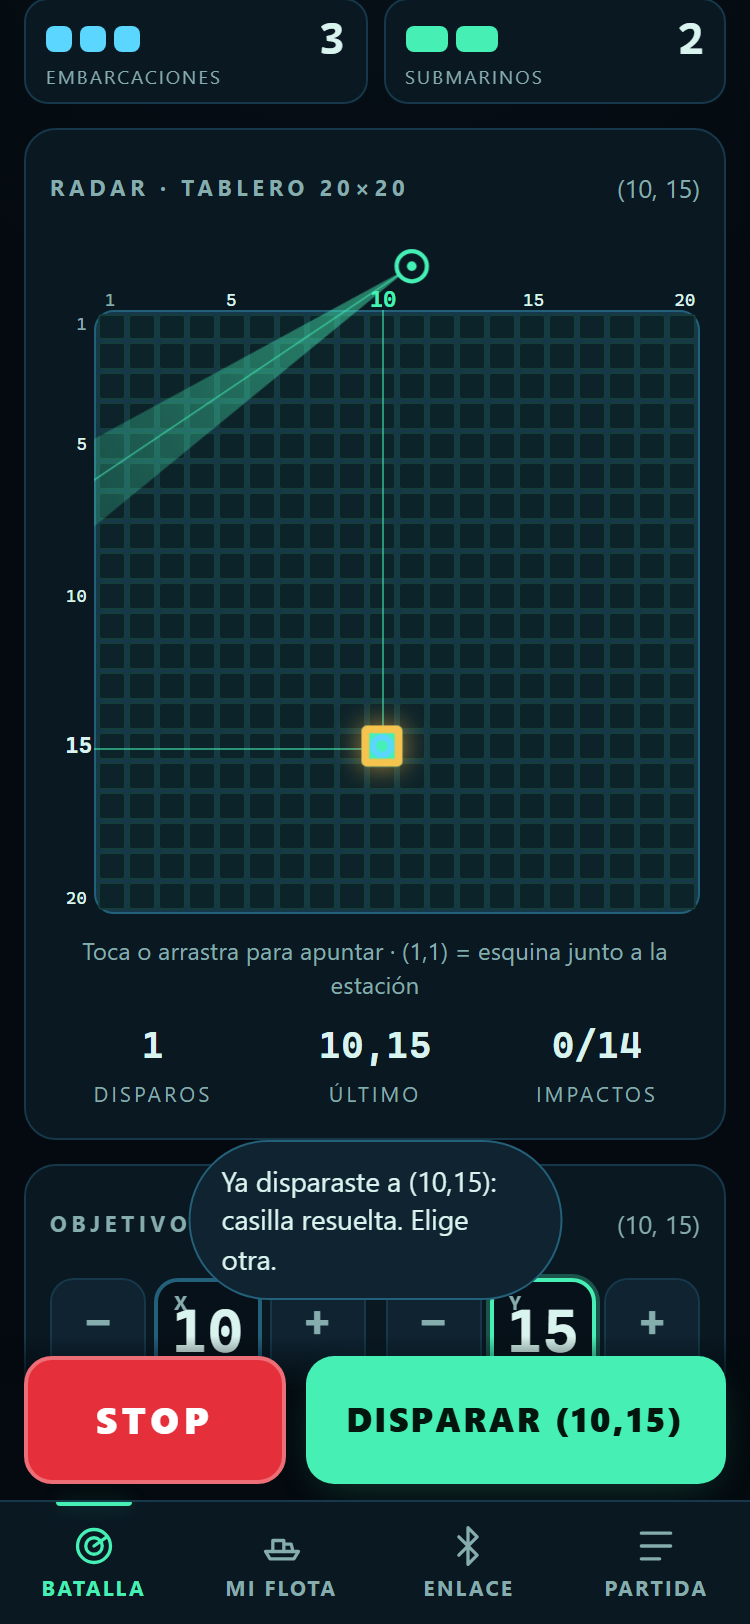
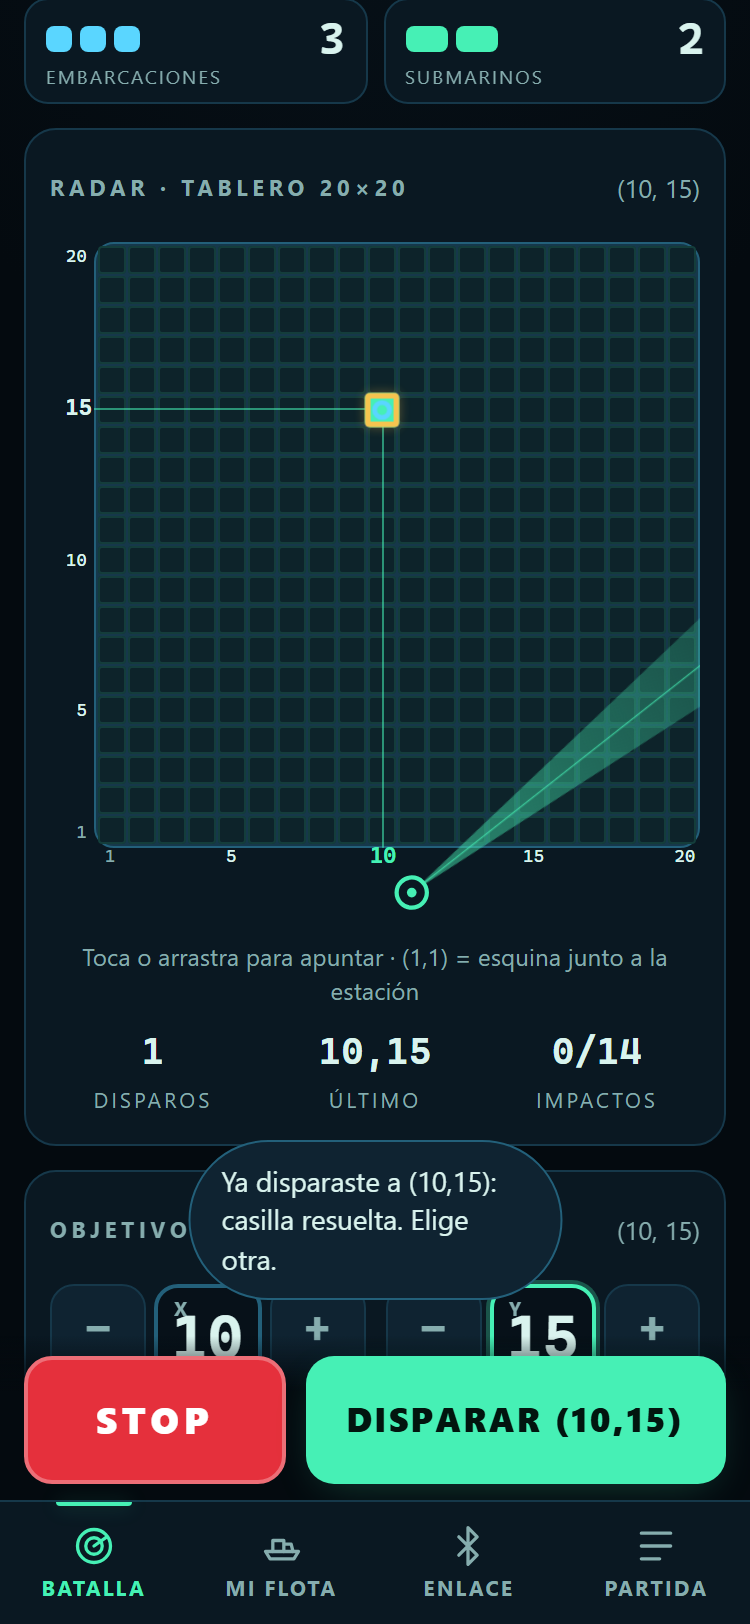
fix(app): la estacion y el disparo salen desde abajo; (1,1) abajo-izquierda
El radar, Mi flota y Ubica el barco se dibujan con y=1 en la fila de abajo,
junto a la estacion, como en el tablero fisico. Fx, tutorial (escena del laser),
flechas del teclado y e2e ajustados. Docs: hardware final sin luces.

diff --git a/app/src/ui/Board.tsx b/app/src/ui/Board.tsx
@@ -8,15 +8,17 @@ import { app } from '../state'
 import { CycleFx } from './cycle/Stage'
 
 const NUMS = Array.from({ length: N }, (_, i) => i + 1)
+/** Etiquetas del eje Y de arriba abajo: (1,1) queda ABAJO, junto a la estación, como en el tablero físico. */
+const NUMS_Y = [...NUMS].reverse()
 const clampCell = (n: number) => Math.max(1, Math.min(N, n))
 function cellFromPointer(e: PointerEvent): Coord {
   const r = (e.currentTarget as HTMLElement).getBoundingClientRect()
-  return { x: clampCell(Math.floor(((e.clientX - r.left) / r.width) * N) + 1), y: clampCell(Math.floor(((e.clientY - r.top) / r.height) * N) + 1) }
+  return { x: clampCell(Math.floor(((e.clientX - r.left) / r.width) * N) + 1), y: clampCell(N - Math.floor(((e.clientY - r.top) / r.height) * N)) }
 }
 const capture = (e: PointerEvent) => { try { (e.currentTarget as HTMLElement).setPointerCapture?.(e.pointerId) } catch { /* sin captura */ } }
 
 const YLab = (p: { y?: number | undefined }) => (
-  <div class="ylab" aria-hidden="true">{NUMS.map(n => <i class={`${n % 5 === 0 ? 'm' : ''} ${p.y === n ? 'on' : ''}`}>{n % 5 === 0 || n === 1 || p.y === n ? n : ''}</i>)}</div>
+  <div class="ylab" aria-hidden="true">{NUMS_Y.map(n => <i class={`${n % 5 === 0 ? 'm' : ''} ${p.y === n ? 'on' : ''}`}>{n % 5 === 0 || n === 1 || p.y === n ? n : ''}</i>)}</div>
 )
 const XLab = (p: { x?: number | undefined }) => (
   <div class="xlab" aria-hidden="true">{NUMS.map(n => <i class={`${n % 5 === 0 ? 'm' : ''} ${p.x === n ? 'on' : ''}`}>{n % 5 === 0 || n === 1 || p.x === n ? n : ''}</i>)}</div>
@@ -43,7 +45,7 @@ export function Radar() {
   const bt = beam ?? t ?? { x: 10, y: 10 }
 
   const cells = []
-  for (let y = 1; y <= N; y++) for (let x = 1; x <= N; x++) {
+  for (let y = N; y >= 1; y--) for (let x = 1; x <= N; x++) {   // fila de arriba = y 20; la de abajo (y 1) queda junto a la estación
     const st = map.get(key({ x, y }))
     let cls = 'c'
     if (st === 'hit') cls += ' hit'
@@ -67,7 +69,7 @@ export function Radar() {
 
   const set = (e: PointerEvent) => { if (aiming) app.setTarget(cellFromPointer(e)) }
   const arrow = (e: KeyboardEvent) => {
-    const d: Record<string, [number, number]> = { ArrowLeft: [-1, 0], ArrowRight: [1, 0], ArrowUp: [0, -1], ArrowDown: [0, 1] }
+    const d: Record<string, [number, number]> = { ArrowLeft: [-1, 0], ArrowRight: [1, 0], ArrowUp: [0, 1], ArrowDown: [0, -1] }
     const v = d[e.key]
     if (!v) return
     e.preventDefault()
@@ -77,8 +79,7 @@ export function Radar() {
   return (
     <div class={`field ${phase === 'explosion' ? 'shake' : ''}`}>
       <div class="stage">
-        <div class="band"><XLab x={t?.x} /></div>
-        <div class={`bw ${t ? 'has' : ''}`} style={t ? { '--tx': t.x - 1, '--ty': t.y - 1 } : undefined} tabIndex={0} role="application" id="radar"
+        <div class={`bw ${t ? 'has' : ''}`} style={t ? { '--tx': t.x - 1, '--ty': N - t.y } : undefined} tabIndex={0} role="application" id="radar"
           aria-label="Radar de 20 por 20. Toca o arrastra para apuntar; las flechas del teclado ajustan la celda."
           onPointerDown={e => { if (!aiming) return; down.current = true; capture(e); set(e) }}
           onPointerMove={e => { if (down.current) set(e) }}
@@ -87,17 +88,18 @@ export function Radar() {
           <div class="board" aria-hidden="true">{cells}</div>
           <div class="fx" aria-hidden="true">
             <i class="cv" /><i class="ch" />
-            {app.rings.value.map(r => <i key={r.id} class={`ring ${r.kind}`} style={{ left: `${(r.at.x - 0.5) * 5}%`, top: `${(r.at.y - 0.5) * 5}%` }} />)}
+            {app.rings.value.map(r => <i key={r.id} class={`ring ${r.kind}`} style={{ left: `${(r.at.x - 0.5) * 5}%`, top: `${(N - r.at.y + 0.5) * 5}%` }} />)}
           </div>
         </div>
-        <svg class="svg" viewBox="0 -2.2 20 22.2" preserveAspectRatio="none" aria-hidden="true">
+        <div class="band low"><XLab x={t?.x} /></div>
+        <svg class="svg" viewBox="0 0 20 22.4" preserveAspectRatio="none" aria-hidden="true">
           <defs>
-            <linearGradient id="gs" gradientUnits="userSpaceOnUse" x1="10.5" y1="-1.4" x2="10.5" y2="22"><stop offset="0" style="stop-color:var(--sonar)" stop-opacity=".5" /><stop offset="1" style="stop-color:var(--sonar)" stop-opacity="0" /></linearGradient>
-            <clipPath id="cp"><rect x="0" y="-2.2" width="20" height="22.2" /></clipPath>
+            <linearGradient id="gs" gradientUnits="userSpaceOnUse" x1="10.5" y1="21.5" x2="10.5" y2="-2"><stop offset="0" style="stop-color:var(--sonar)" stop-opacity=".5" /><stop offset="1" style="stop-color:var(--sonar)" stop-opacity="0" /></linearGradient>
+            <clipPath id="cp"><rect x="0" y="0" width="20" height="22.4" /></clipPath>
           </defs>
-          <g clip-path="url(#cp)"><g class="sweep"><path d="M10.5 -1.4 8.1 24 12.9 24Z" fill="url(#gs)" /><path d="M10.5 -1.4 10.5 24" stroke="var(--sonar)" stroke-width=".05" opacity=".6" /></g></g>
-          <line class={`beam ${beam ? 'on' : ''}`} x1="10.5" y1="-1.4" x2={bt.x - 0.5} y2={bt.y - 0.5} />
-          <circle class="stn" cx="10.5" cy="-1.4" r=".5" /><circle cx="10.5" cy="-1.4" r=".16" fill="var(--sonar)" />
+          <g clip-path="url(#cp)"><g class="sweep"><path d="M10.5 21.5 8.1 -4 12.9 -4Z" fill="url(#gs)" /><path d="M10.5 21.5 10.5 -4" stroke="var(--sonar)" stroke-width=".05" opacity=".6" /></g></g>
+          <line class={`beam ${beam ? 'on' : ''}`} x1="10.5" y1="21.5" x2={bt.x - 0.5} y2={N - bt.y + 0.5} />
+          <circle class="stn" cx="10.5" cy="21.5" r=".5" /><circle cx="10.5" cy="21.5" r=".16" fill="var(--sonar)" />
         </svg>
         <CycleFx />
       </div>
@@ -115,7 +117,7 @@ export function FleetBoard(p: { edit: boolean; reveal: boolean }) {
   for (const s of ships) for (const c of shipCells(s)) { const k = key(c); owner.set(k, [...(owner.get(k) ?? []), s.id]) }
 
   const cells = []
-  for (let y = 1; y <= N; y++) for (let x = 1; x <= N; x++) {
+  for (let y = N; y >= 1; y--) for (let x = 1; x <= N; x++) {
     const k = key({ x, y })
     const ids = owner.get(k)
     let cls = 'c'

diff --git a/app/src/ui/cycle/fx.ts b/app/src/ui/cycle/fx.ts
@@ -1,5 +1,5 @@
 /**
- * Efectos del ciclo de disparo sobre un <canvas> 2D que cubre el escenario del radar (estación arriba + tablero 20×20).
+ * Efectos del ciclo de disparo sobre un <canvas> 2D que cubre el escenario del radar (tablero 20×20 con la estación ABAJO: el disparo sube desde ella, igual que en el tablero físico).
  * Pensado para un celular de gama baja: solo trazos, círculos y degradados radiales; sin blur ni filtros;
  * máximo ~40 partículas; el bucle rAF corre únicamente mientras hay algo animándose.
  * Con `prefers-reduced-motion` se usa una versión simple (un anillo / un destello) con la misma lógica de fases.
@@ -48,8 +48,8 @@ export class Fx {
     if (this.canvas.width !== bw || this.canvas.height !== bh) { this.canvas.width = bw; this.canvas.height = bh }
     this.ctx?.setTransform(dpr, 0, 0, dpr, 0, 0)
   }
-  /** unidades del tablero (x: 0..20, y: -2.2..20) → píxeles del canvas */
-  private P(xu: number, yu: number): [number, number] { const u = this.w / 20; return [xu * u, (yu + 2.2) * u] }
+  /** unidades del escenario (x: 0..20; fila: 0 arriba … 20 = borde inferior del tablero; la estación queda en 21.5) → píxeles */
+  private P(xu: number, row: number): [number, number] { const u = this.w / 20; return [xu * u, row * u] }
   private get u(): number { return this.w / 20 }
 
   setPhase(phase: FxPhase, at: Coord, flightMs = 1100): void {
@@ -86,8 +86,8 @@ export class Fx {
   }
 
   // ---- piezas ----
-  private target(): [number, number] { return this.P(this.at.x - 0.5, this.at.y - 0.5) }
-  private station(): [number, number] { return this.P(10.5, -1.4) }
+  private target(): [number, number] { return this.P(this.at.x - 0.5, 20 - this.at.y + 0.5) }   // y = 1 es la fila de abajo
+  private station(): [number, number] { return this.P(10.5, 21.5) }
   private at_(p: number): [number, number] {
     const [sx, sy] = this.station(), [tx, ty] = this.target()
     return [sx + (tx - sx) * p, sy + (ty - sy) * p]
@@ -135,7 +135,7 @@ export class Fx {
     const [tx, ty] = this.target(), u = this.u
     // cruz tenue que cruza todo el tablero: se lee la coordenada de un vistazo
     ctx.strokeStyle = `rgba(217,243,238,${0.22 * a})`; ctx.lineWidth = 1
-    ctx.beginPath(); ctx.moveTo(tx, this.P(0, -1.2)[1]); ctx.lineTo(tx, this.h); ctx.moveTo(0, ty); ctx.lineTo(this.w, ty); ctx.stroke()
+    ctx.beginPath(); ctx.moveTo(tx, 0); ctx.lineTo(tx, this.P(0, 20)[1]); ctx.moveTo(0, ty); ctx.lineTo(this.w, ty); ctx.stroke()
     const k = (t % 900) / 900
     const R = u * (1.7 - 1.0 * easeOut(k))
     ctx.strokeStyle = `rgba(217,243,238,${(0.95 - 0.6 * k) * a})`; ctx.lineWidth = 2

diff --git a/app/src/styles/app.css b/app/src/styles/app.css
@@ -80,6 +80,7 @@ input,textarea{-webkit-user-select:text;user-select:text}
 .stage{position:relative}
 .band{aspect-ratio:20/2.2;position:relative}
 .band.slim{aspect-ratio:20/.9}
+.band.low{aspect-ratio:20/2.4}.band.low .xlab{top:0;bottom:auto}   /* radar: la estación queda debajo del tablero */
 .xlab{position:absolute;left:0;right:0;bottom:0;display:grid;grid-template-columns:repeat(20,1fr);font:9px/1 var(--mono);color:var(--mut);text-align:center}
 .xlab i{font-style:normal;transition:color .18s,transform .18s var(--ease-out)}
 .xlab i.m{color:var(--txt)}.xlab i.on,.ylab i.on{color:var(--sonar);font-weight:700;transform:scale(1.25)}
@@ -110,13 +111,13 @@ input,textarea{-webkit-user-select:text;user-select:text}
 .hidden-board .c::before{background:var(--cell)}
 .fx{position:absolute;inset:0;pointer-events:none;overflow:visible}
 .svg{position:absolute;left:0;top:0;width:100%;height:100%;overflow:visible;pointer-events:none}
-.svg .sweep{transform-origin:10.5px -1.4px;animation:sweep 3.6s var(--ease-io) infinite alternate}
+.svg .sweep{transform-origin:10.5px 21.5px;animation:sweep 3.6s var(--ease-io) infinite alternate}
 html[data-theme="light"] .svg .sweep{opacity:.55}
 .svg .stn{fill:var(--panel);stroke:var(--sonar);stroke-width:.14}
 .svg .beam{stroke:var(--hit);stroke-width:2.2;vector-effect:non-scaling-stroke;stroke-linecap:round;opacity:0;filter:drop-shadow(0 0 3px var(--hit))}
 .svg .beam.on{opacity:1;animation:draw .16s var(--ease-out)}
 .cv,.ch{position:absolute;background:var(--sonar);opacity:0;transition:opacity .18s}
-.cv{left:calc((var(--tx,0) + .5)*5%);top:0;width:1px;height:100%;transform-origin:0 0;transform:scaleY(calc((var(--ty,0) + .5)/20));transition:opacity .18s,transform .2s var(--ease-out)}
+.cv{left:calc((var(--tx,0) + .5)*5%);top:0;width:1px;height:100%;transform-origin:0 100%;transform:scaleY(calc((19.5 - var(--ty,0))/20));transition:opacity .18s,transform .2s var(--ease-out)}
 .ch{top:calc((var(--ty,0) + .5)*5%);left:0;height:1px;width:100%;transform-origin:0 0;transform:scaleX(calc((var(--tx,0) + .5)/20));transition:opacity .18s,transform .2s var(--ease-out)}
 .has .cv,.has .ch{opacity:.55}
 .ring{position:absolute;width:5%;height:5%;border-radius:50%;border:2px solid var(--c,var(--echo));opacity:0;transform:translate(-50%,-50%) scale(.4);animation:eco .95s var(--ease-out) forwards}

diff --git a/app/src/ui/cycle/Locate.tsx b/app/src/ui/cycle/Locate.tsx
@@ -12,7 +12,7 @@ const same = (a: Coord, b: Coord) => a.x === b.x && a.y === b.y
 /** Casilla bajo el dedo (sobre el tablero, con el dedo capturado fuera también se ajusta al borde). */
 function cellAt(e: PointerEvent): Coord {
   const r = (e.currentTarget as HTMLElement).getBoundingClientRect()
-  return { x: clampCell(Math.floor(((e.clientX - r.left) / r.width) * N) + 1), y: clampCell(Math.floor(((e.clientY - r.top) / r.height) * N) + 1) }
+  return { x: clampCell(Math.floor(((e.clientX - r.left) / r.width) * N) + 1), y: clampCell(N - Math.floor(((e.clientY - r.top) / r.height) * N)) }
 }
 
 /** Trazo «ajustado» a un eje: solo recta horizontal o vertical desde `a` hasta la proyección de `b`. */
@@ -57,7 +57,7 @@ export function LocateScreen() {
   const up = () => { drag.current = null }
 
   const cells = []
-  for (let y = 1; y <= N; y++) for (let x = 1; x <= N; x++) {
+  for (let y = N; y >= 1; y--) for (let x = 1; x <= N; x++) {   // (1,1) abajo, igual que el radar
     const k = key({ x, y })
     let cls = 'c'
     const ks = knownShipAt(known, { x, y })
@@ -94,7 +94,7 @@ export function LocateScreen() {
           <div class="band slim"><div class="xlab" aria-hidden="true">{NUMS.map(n => <i class={n % 5 === 0 || n === 1 ? 'm' : ''}>{n % 5 === 0 || n === 1 ? n : ''}</i>)}</div></div>
           <div class="bw" id="locBoard" style={{ cursor: 'crosshair' }} onPointerDown={down} onPointerMove={move} onPointerUp={up} onPointerCancel={up}
             aria-label="Tablero 20 por 20. Arrastra para trazar el barco.">
-            <div class="ylab" aria-hidden="true">{NUMS.map(n => <i class={n % 5 === 0 ? 'm' : ''}>{n % 5 === 0 || n === 1 ? n : ''}</i>)}</div>
+            <div class="ylab" aria-hidden="true">{[...NUMS].reverse().map(n => <i class={n % 5 === 0 ? 'm' : ''}>{n % 5 === 0 || n === 1 ? n : ''}</i>)}</div>
             <div class="board" aria-hidden="true">{cells}</div>
           </div>
         </div>

diff --git a/app/src/ui/intro/act1.tsx b/app/src/ui/intro/act1.tsx
@@ -127,13 +127,13 @@ export function EscCoordenada() {
 export function EscLaser() {
   return (
     <div class="sc">
-      <Board vb="0 -30 200 230">
-        <g class="an fall" style={t(0, 0.12)}>
-          <rect class="tur" x={88} y={-26} width={24} height={14} rx={4} />
-          <circle class="turl" cx={100} cy={-12} r={3.4} />
+      <Board vb="0 0 200 230">
+        <g class="an fallup" style={t(0, 0.12)}>
+          <rect class="tur" x={88} y={212} width={24} height={14} rx={4} />
+          <circle class="turl" cx={100} cy={212} r={3.4} />
         </g>
-        <line class="beamg an draw" pathLength={1} style={t(0.25, 0.2)} x1={100} y1={-12} x2={cc(TX)} y2={cc(TY)} />
-        <line class="beam an draw" pathLength={1} style={t(0.25, 0.2)} x1={100} y1={-12} x2={cc(TX)} y2={cc(TY)} />
+        <line class="beamg an draw" pathLength={1} style={t(0.25, 0.2)} x1={100} y1={212} x2={cc(TX)} y2={cc(TY)} />
+        <line class="beam an draw" pathLength={1} style={t(0.25, 0.2)} x1={100} y1={212} x2={cc(TX)} y2={cc(TY)} />
         <rect class="cellx an pop" style={t(0.45, 0.1)} x={TX * 10} y={TY * 10} width={10} height={10} />
         <circle class="dotx an pop" style={t(0.45, 0.08)} cx={cc(TX)} cy={cc(TY)} r={2.6} />
         <circle class="ripx an ripple lp" style={`--w:1.6s`} cx={cc(TX)} cy={cc(TY)} r={6} />

diff --git a/app/src/styles/intro.css b/app/src/styles/intro.css
@@ -44,6 +44,8 @@
 .ripple{animation-name:ripple}.draw{animation-name:draw}.burst{animation-name:burst}.conf{animation-name:conf}
 .kpress{animation-name:kpress}.ring,.ringa{animation-name:ringwin}.drop{animation-name:drop}.drag{animation-name:drag;animation-timing-function:cubic-bezier(.65,0,.35,1)}
 .flash{animation-name:flash}.grow{animation-name:grow;animation-timing-function:linear;transform-origin:left}
+.fallup{animation-name:fallup}   /* la estación entra desde abajo del tablero */
+@keyframes fallup{0%{opacity:0;transform:translateY(110px)}55%{opacity:1;transform:translateY(-5px)}78%{transform:translateY(2px)}100%{opacity:1;transform:none}}
 @keyframes fall{0%{opacity:0;transform:translateY(-110px)}55%{opacity:1;transform:translateY(5px)}78%{transform:translateY(-2px)}100%{opacity:1;transform:none}}
 @keyframes pop{0%{opacity:0;transform:scale(.4)}65%{opacity:1;transform:scale(1.1)}100%{opacity:1;transform:none}}
 @keyframes fadein{from{opacity:0}to{opacity:1}}

diff --git a/app/tools/e2e_ciclo.py b/app/tools/e2e_ciclo.py
@@ -54,7 +54,7 @@ def drag_cells(pg, a: tuple[int, int], b: tuple[int, int], steps: int = 12) -> N
     cw = bb["width"] / 20
 
     def pt(c, dx=0.0, dy=0.0):
-        return bb["x"] + (c[0] - 0.5) * cw + dx, bb["y"] + (c[1] - 0.5) * cw + dy
+        return bb["x"] + (c[0] - 0.5) * cw + dx, bb["y"] + (20 - c[1] + 0.5) * cw + dy   # y = 1 es la fila de abajo
     x0, y0 = pt(a)
     pg.mouse.move(x0, y0)
     pg.mouse.down()

diff --git a/docs/02-electronica/PINOUT.md b/docs/02-electronica/PINOUT.md
@@ -5,20 +5,22 @@
 | Servo **pan** (MG996R) | 18 | señal; alimentación a 6 V; GND común con el ESP32 |
 | Servo **tilt** (MG90S) | 19 | señal; alimentación a 6 V |
 | **Láser** (KY-008) | 23 | GPIO → 1 kΩ → base de un 2N2222A; emisor a GND; el láser entre 5 V y el colector; **10 kΩ de la base a GND** (queda apagado al arrancar) |
-| **Zumbador** activo | 21 | GPIO → zumbador → GND (si consume > 12 mA, con transistor) |
-| **LED** de acierto | 22 | GPIO → 330 Ω → LED → GND |
-| Pulsador **TEST** | 25 | a GND (pull-up interno) |
-| Interruptor **MAINT** | 26 | a GND al arrancar = modo mantenimiento (Wi-Fi) |
-| Medida de 5 V (opcional) | 34 | divisor 100 kΩ / 33 kΩ |
 | **Interruptor general** | — (no es GPIO) | mecánico, en serie con la entrada de 6 V, antes de cualquier regulador; corta/da paso a toda la alimentación (servos + ESP32) de una vez |
 
-## Reservado (propuesto 2026-11-15, NO implementado)
+## Hardware final (decisión de Sebas, 2026-11-20)
 
-| Señal | GPIO | Conexión |
+**ESP32 + 2 servos + láser + fase de potencia. Nada de luces** (ni matriz WS2812B ni LED de acierto). El sonido y la vibración los hace la app en el celular.
+
+Lo siguiente **ya no se arma**. El firmware conserva los pines y no falla si faltan, porque no hay nada conectado que leer:
+
+| Señal | GPIO | Estado |
 |---|---|---|
-| Matriz LED decorativa (WS2812B) | 4 | dato; VCC a 5 V; GND común; 100 nF por LED + 470 µF al inicio de la tira |
-
-Solo decorativa (feedback visual de acierto/fallo), sin lógica de juego ni detección — eso ya se descartó por tiempo (ver `docs/00-proyecto/RUBRICA_Y_CUMPLIMIENTO.md`, no suma puntos de rúbrica). Pin reservado para no chocar con nada de la lista de arriba; sin código todavía. El WS2812B a 5 V espera ≥3,5 V en la señal y el GPIO da 3,3 V — en tiras cortas suele andar igual; si hay parpadeo, agregar un buffer 74HCT125 entre GPIO4 y la tira.
+| Zumbador activo | 21 | opcional (la app suena en el celular) |
+| LED de acierto | 22 | **descartado** |
+| Pulsador TEST | 25 | opcional (el TEST se lanza desde la app) |
+| Interruptor MAINT | 26 | opcional (modo mantenimiento Wi-Fi) |
+| Medida de 5 V | 34 | opcional |
+| Matriz LED decorativa (WS2812B) | 4 | **descartada** |
 
 ## Alimentación (por módulo)
 

diff --git a/docs/ESTADO.md b/docs/ESTADO.md
@@ -25,7 +25,8 @@ Consecuencias: **no hacen falta sensores por casilla** (ni matriz LDR ni fotodet
 | Servos | **MG996R ×2 por módulo** (pan y tilt) + repuestos | 7-nov | [LISTA_MERCADOLIBRE](04-compras/LISTA_MERCADOLIBRE.md) |
 | Compras | Mercado Libre / tiendas colombianas, **nada de China** (llega tarde) | 7-nov | idem |
 | Publicación | Repositorio **privado** hasta el 24-nov; publicación programada ese día a las 20:00 (`tools/publicar.py`) | 7-nov | [LICENCIAS](05-publicacion/LICENCIAS.md) |
-| Matriz LED decorativa | **Diferida.** GPIO4 reservado (WS2812B, solo decorativa), sin código. Prioridad: lo que sí califica primero (test 5/5, app, contrincante); la matriz solo si sobra tiempo tras el 20-nov | 15-nov | [PINOUT](02-electronica/PINOUT.md) |
+| Hardware final | **ESP32 + 2 servos + láser + fase de potencia. Nada de luces** (sin matriz LED ni LED de acierto). Sonido y vibración en la app | 20-nov | [PINOUT](02-electronica/PINOUT.md) |
+| App: orientación del radar | La estación y el disparo salen **desde abajo** y (1,1) queda abajo-izquierda, como en el tablero físico (el usuario ve lo mismo que la estación) | 20-nov | [APP_SONAR](03-firmware-y-app/APP_SONAR.md) |
 
 ## 3. Conflictos entre fuentes (resueltos aquí)
 | Tema | Antes (3-nov, vault) | Ahora |

diff --git a/docs/03-firmware-y-app/APP_SONAR.md b/docs/03-firmware-y-app/APP_SONAR.md
@@ -36,6 +36,8 @@ La app es **muy animada**; el profesor opera el celular de Sebas y **ellos (estu
 **Tutorial inicial** (primera vez y en Ajustes → «Ver tutorial»): animación de arranque del logotipo (ping de sonar) y luego, **sin interacción**, primero la **dinámica del juego** (flota, conexión Bluetooth, TEST, coordenada x→y, láser, veredicto, explosión/gota, ubicar el barco) y después el **recorrido de la interfaz** con pantallas simuladas animadas. Siempre con «Saltar».
 Nota de diseño: ubicar el barco completo revela su posición al jugador que dispara (lo que se quiere aquí); el asistente de tiro sigue disponible, apagado por defecto.
 
+**Orientación (2026-11-20):** el radar se ve como lo ve quien está detrás de la estación: la **estación abajo**, el disparo **sube** hacia la casilla y **(1,1) queda abajo-izquierda** (y crece hacia arriba). Lo mismo en «Mi flota» y «Ubica el barco».
+
 ## 2. Cómo se ve la app (norte: «puente de mando de un submarino»)
 Android nativo (APK), vertical, una mano, modo oscuro por defecto (claro opcional). Sin menús escondidos: **barra inferior de 4 pestañas**.
 
